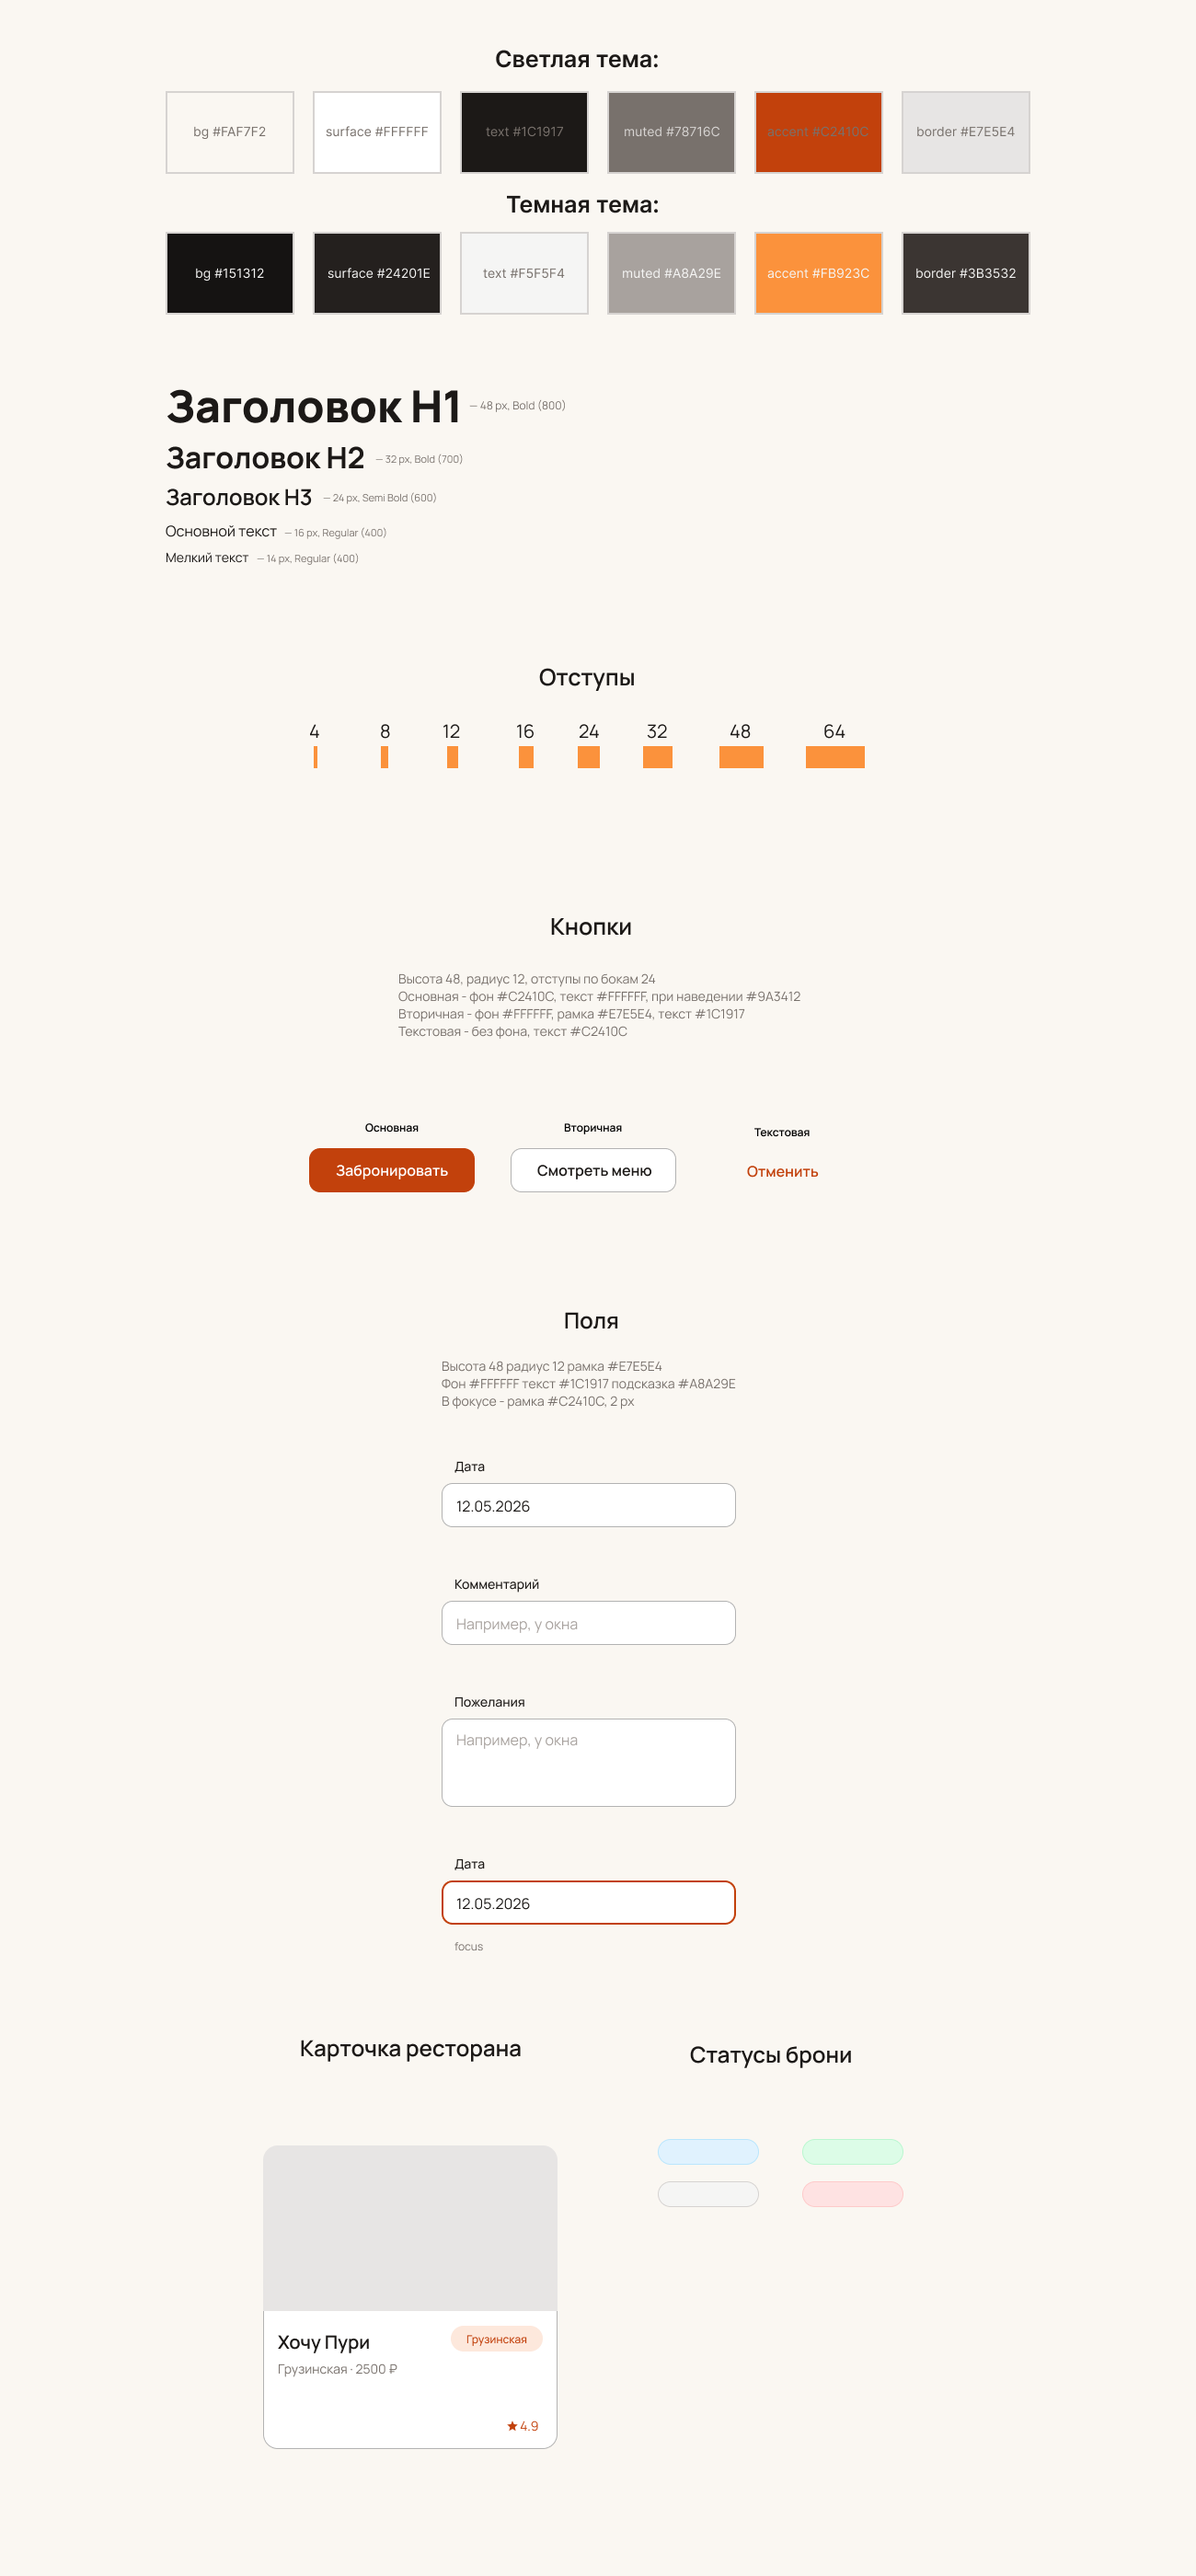
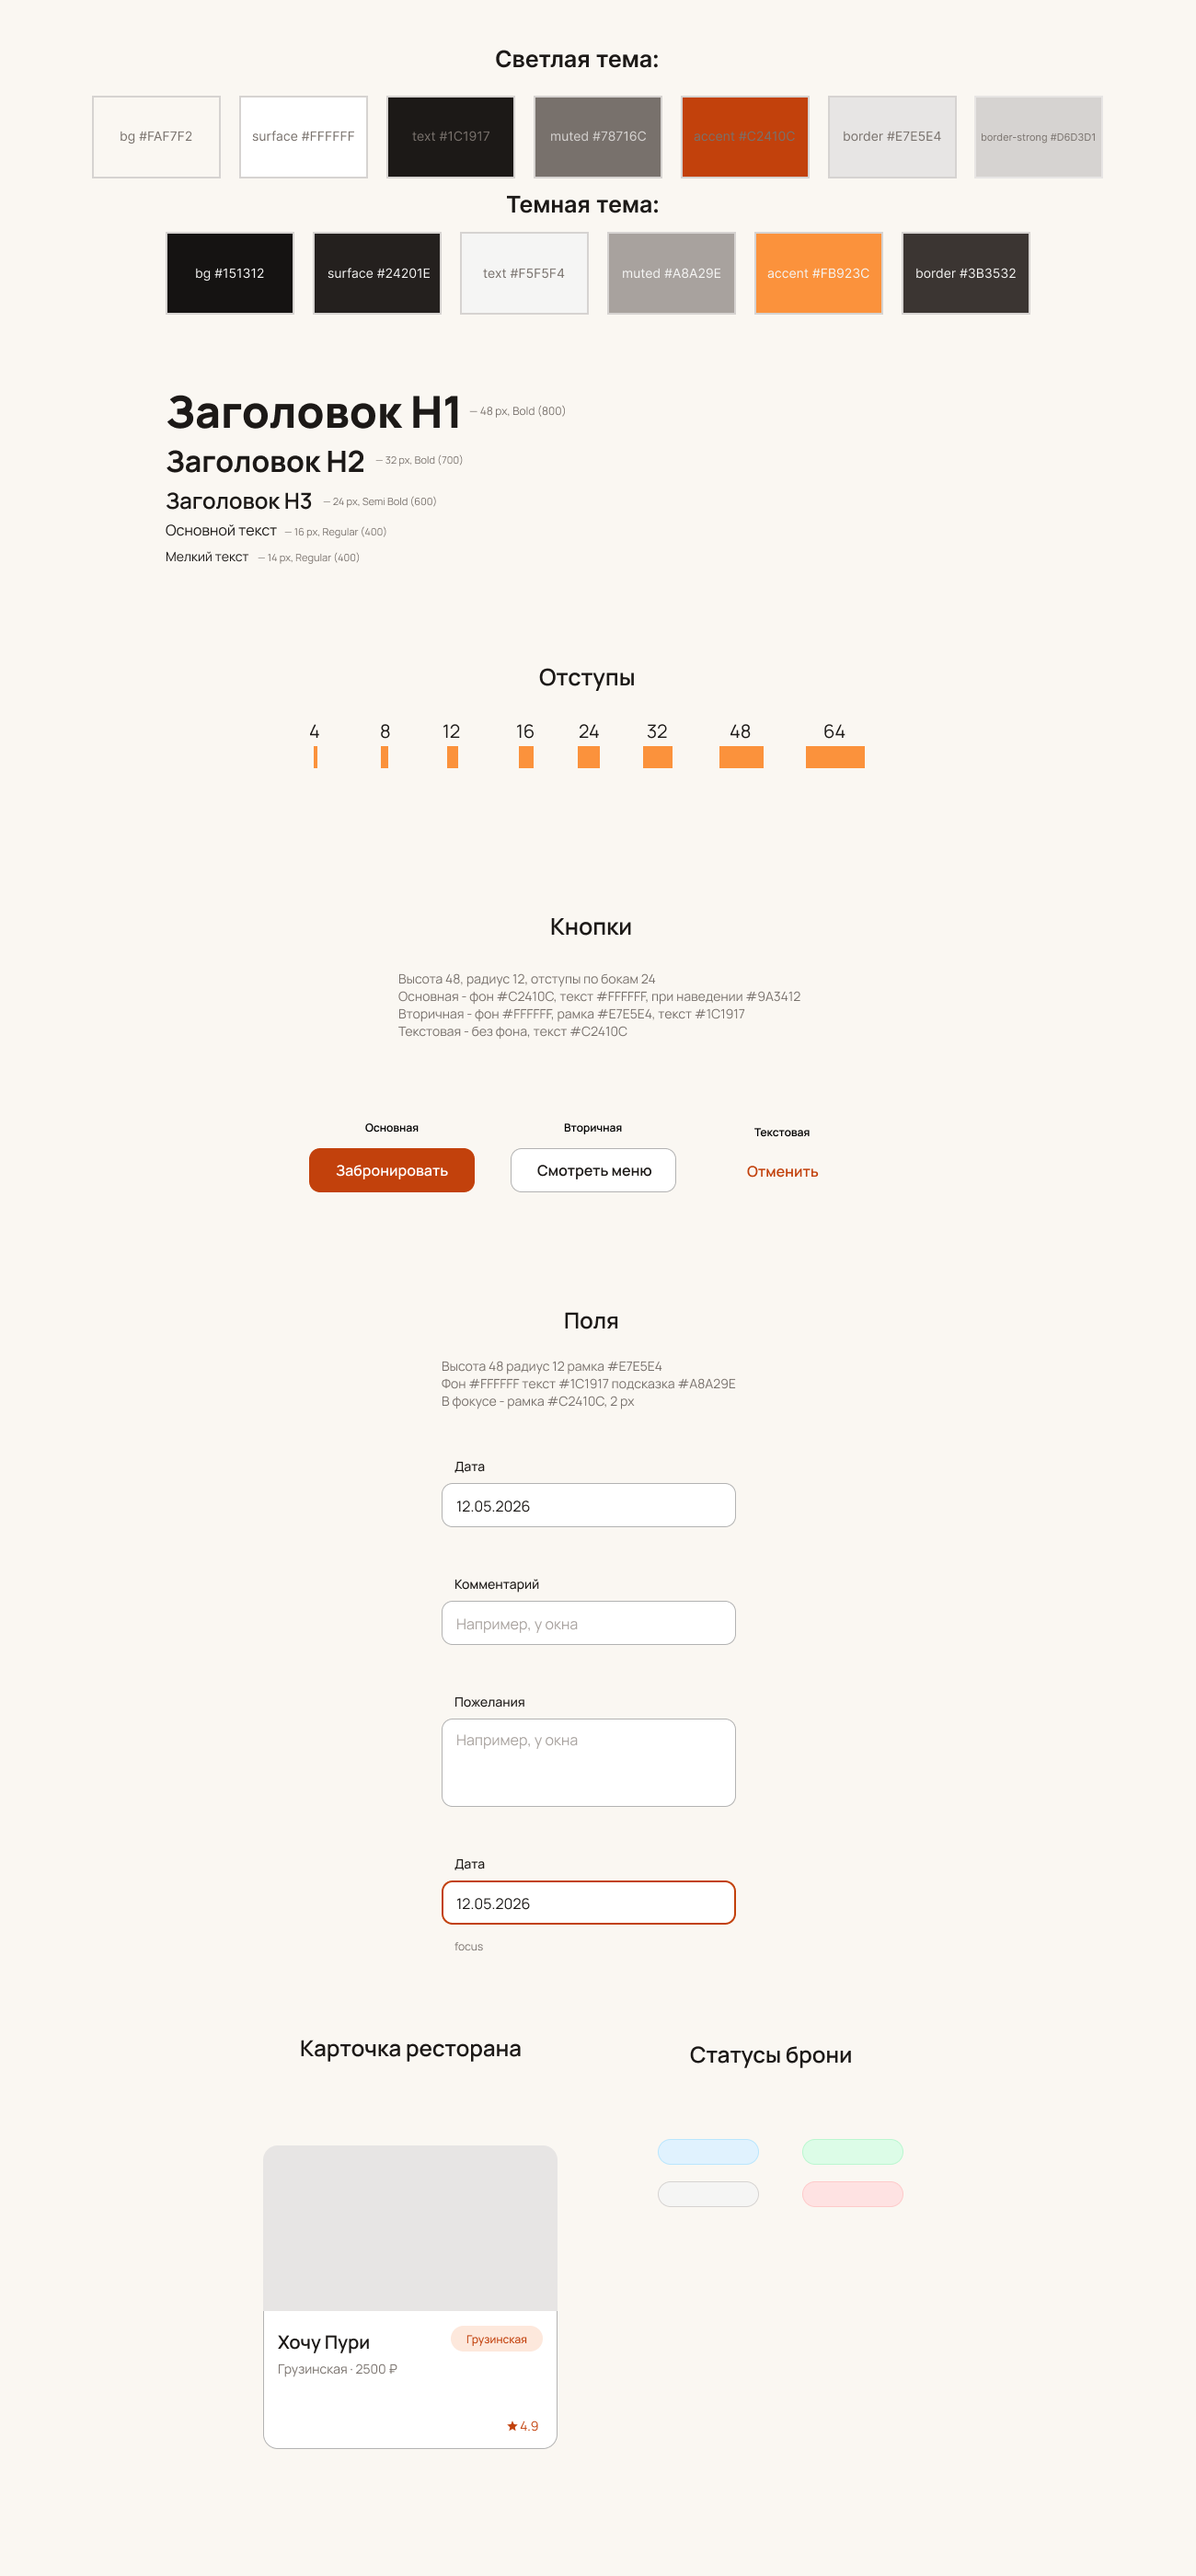
День 4. Шаблоны, статика и обновленный UI Kit

Changed region(s): [[0.1231, 0.0311, 0.7385, 0.0932], [0.1231, 0.1554, 0.3692, 0.2175], [0.8615, 0.0311, 0.9231, 0.0932]]

diff --git a/config/urls.py b/config/urls.py
@@ -1,22 +1,7 @@
-"""
-URL configuration for config project.
-
-The `urlpatterns` list routes URLs to views. For more information please see:
-    https://docs.djangoproject.com/en/6.1/topics/http/urls/
-Examples:
-Function views
-    1. Add an import:  from my_app import views
-    2. Add a URL to urlpatterns:  path('', views.home, name='home')
-Class-based views
-    1. Add an import:  from other_app.views import Home
-    2. Add a URL to urlpatterns:  path('', Home.as_view(), name='home')
-Including another URLconf
-    1. Import the include() function: from django.urls import include, path
-    2. Add a URL to urlpatterns:  path('blog/', include('blog.urls'))
-"""
 from django.contrib import admin
-from django.urls import path
+from django.urls import include, path
 
 urlpatterns = [
     path('admin/', admin.site.urls),
+    path('', include('core.urls'))
 ]

diff --git a/config/settings.py b/config/settings.py
@@ -55,7 +55,7 @@ ROOT_URLCONF = 'config.urls'
 TEMPLATES = [
     {
         'BACKEND': 'django.template.backends.django.DjangoTemplates',
-        'DIRS': [],
+        'DIRS': [BASE_DIR / "templates"],
         'APP_DIRS': True,
         'OPTIONS': {
             'context_processors': [
@@ -116,6 +116,7 @@ USE_TZ = True
 # https://docs.djangoproject.com/en/6.1/howto/static-files/
 
 STATIC_URL = 'static/'
+STATICFILES_DIRS = [BASE_DIR / "static"]
 
 
 # Email

diff --git a/core/urls.py b/core/urls.py
@@ -1,0 +1,9 @@
+from django.urls import path
+
+from . import views
+
+app_name = "core"
+
+urlpatterns = [
+    path("", views.home, name="home"),
+]

diff --git a/core/views.py b/core/views.py
@@ -1,3 +1,4 @@
 from django.shortcuts import render
 
-# Create your views here.
+def home(request):
+    return render(request, "core/home.html")

diff --git a/README.md b/README.md
@@ -23,7 +23,8 @@
 
 ## Установка и запуск
 
-```bash
+```powershell
+Set-ExecutionPolicy -ExecutionPolicy RemoteSigned -Scope CurrentUser
 python -m venv .venv
 .\.venv\Scripts\Activate.ps1
 pip install -r requirements.txt
@@ -32,3 +33,20 @@ python manage.py runserver
 ```
 
 Сайт: http://127.0.0.1:8000/
+
+## Аналитическая часть
+
+### Аудитория
+
+Сайт рассчитан на широкую аудиторию: студенты, пары, семьи, офисные
+работники - все, кто планирует поход в ресторан и хочет заранее занять
+столик. Основное: выбрать заведение, посмотреть меню и цены,
+забронировать стол на вечер.
+
+### Проблема
+
+Сейчас бронирование чаще всего происходит по телефону или через форму
+на сайте ресторана, после которой менеджер перезванивает. Это неудобно:
+нужно ждать ответа и звонить в рабочее время, а информация о меню и ценах
+разбросана по разным источникам. "Вилка" собирает меню, цены и бронь
+в одном месте и позволяет забронировать стол без звонка.
